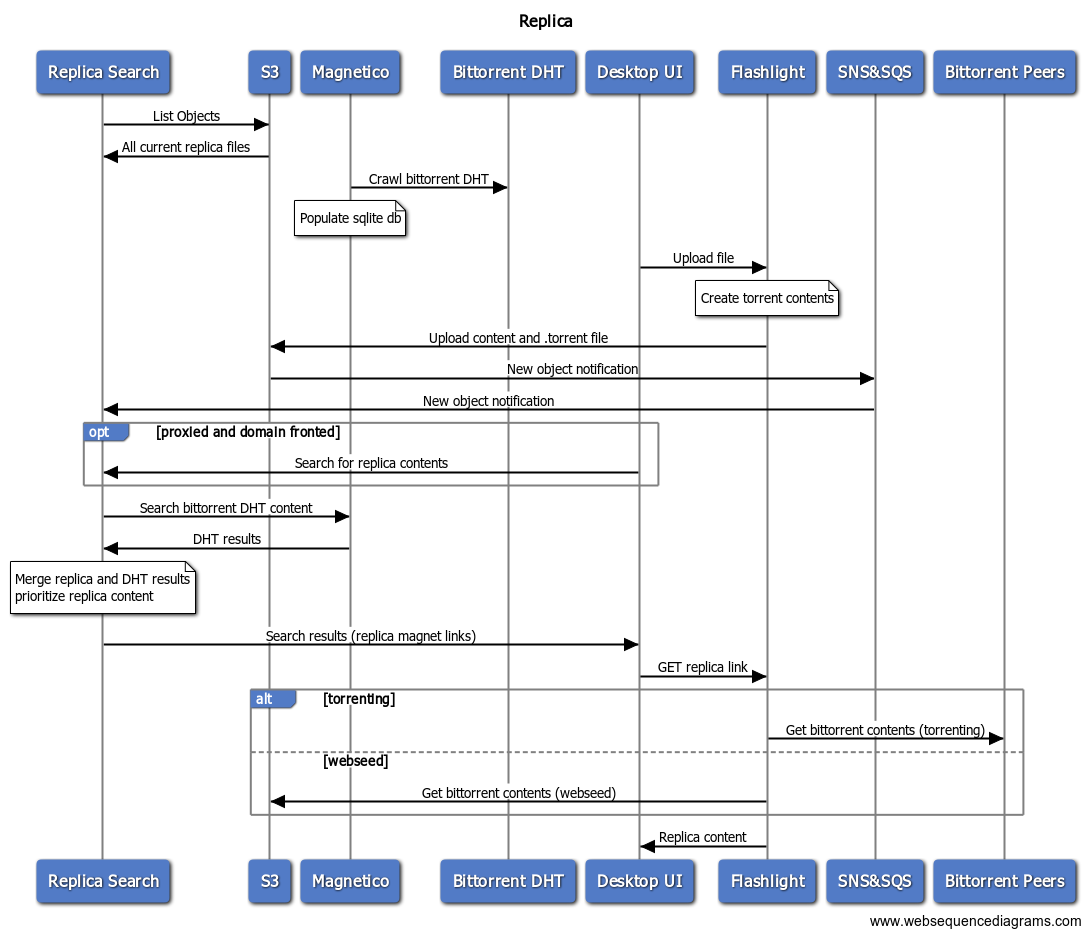
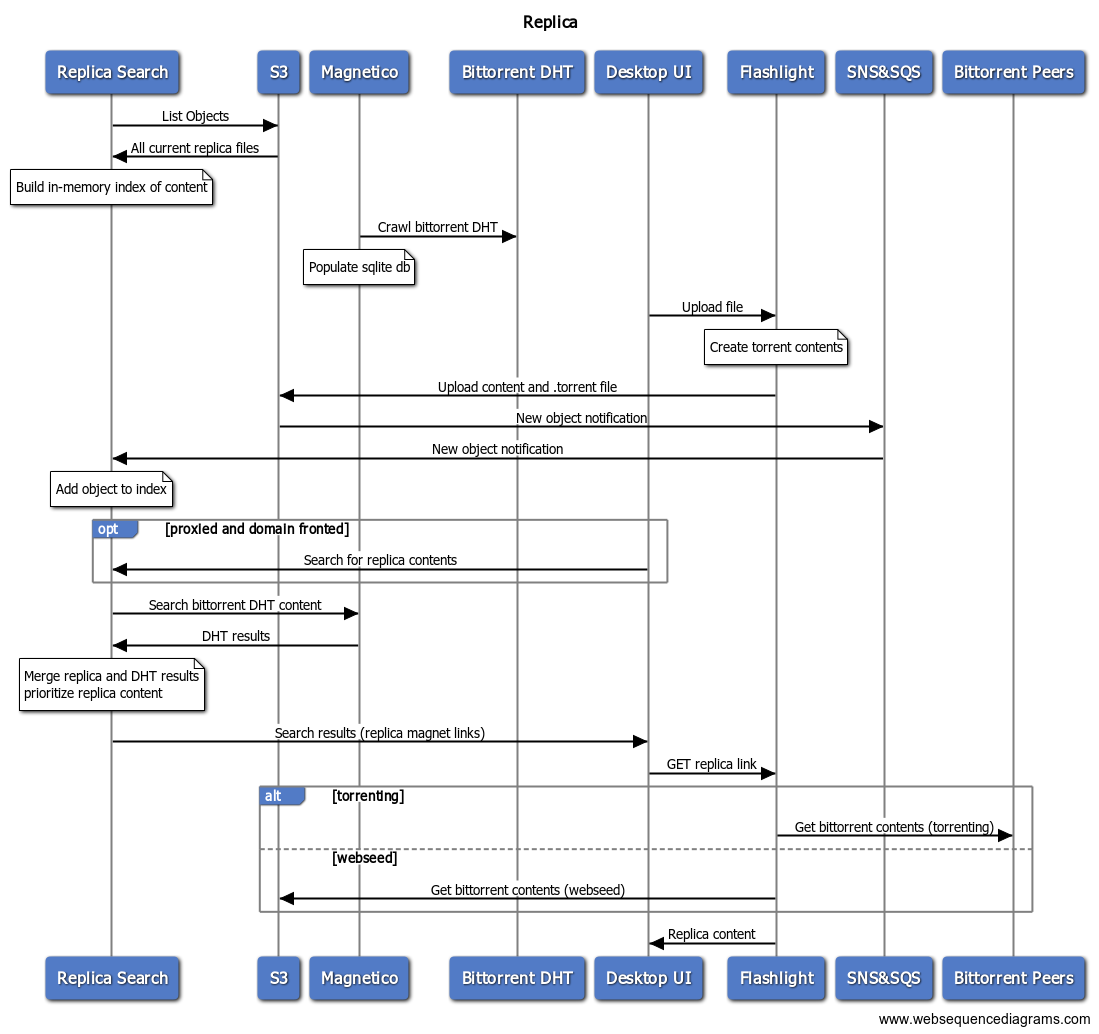
Update documentation web sequence

Changed region(s): [[0.0, 0.0, 0.9973, 0.9904]]

diff --git a/README.md b/README.md
@@ -46,6 +46,7 @@ It can compile a binary which will currently let you upload replica content (and
 title Replica
 Replica Search->S3: List Objects
 S3->Replica Search: All current replica files
+note over Replica Search: Build in-memory index of content
 Magnetico->Bittorrent DHT: Crawl bittorrent DHT
 note over Magnetico: Populate sqlite db
 Desktop UI->Flashlight: Upload file
@@ -53,6 +54,7 @@ note over Flashlight: Create torrent contents
 Flashlight->S3: Upload content and .torrent file
 S3->SNS&SQS: New object notification
 SNS&SQS->Replica Search: New object notification
+note over Replica Search: Add object to index
 opt proxied and domain fronted
     Desktop UI->Replica Search: Search for replica contents
 end
